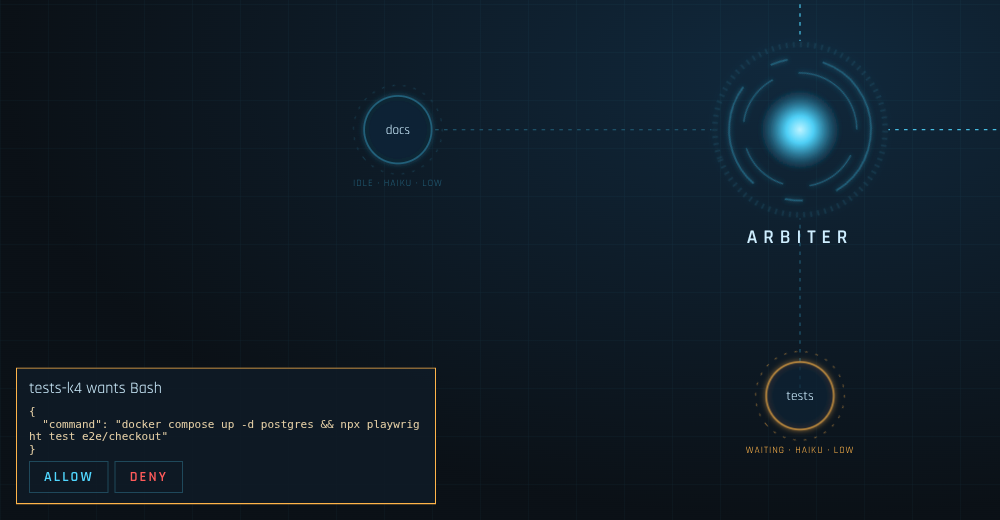
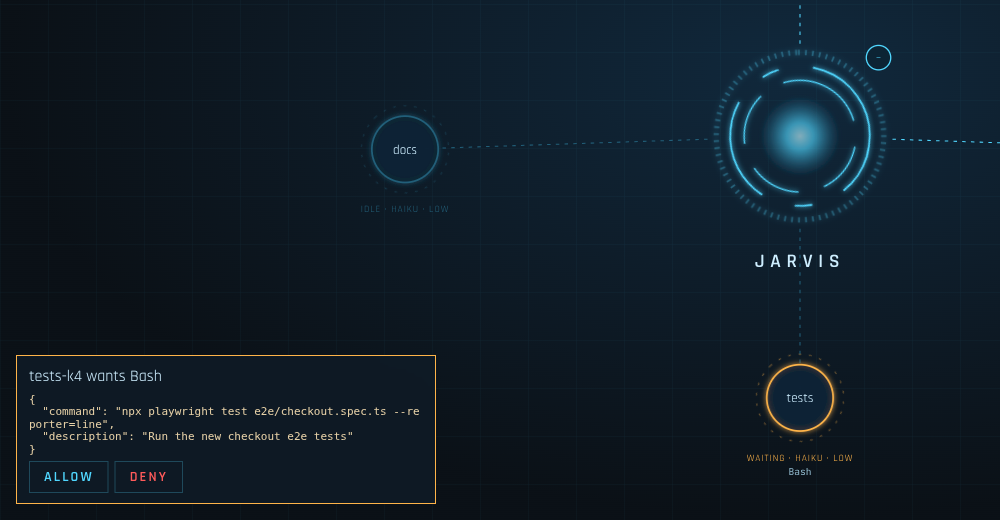
docs: open the README with a demo animation and retake the screenshots
A 14-second animated WebP (1600px, 20 fps, full colour) now leads the README: Jarvis splits a goal, hires agents and a lead with helpers, a board note goes out, an approval card comes and goes, and agents report back. The hero, agent log, approval and menu screenshots are retaken with the Jarvis name and the sector layout, and a new Big teams section with its own screenshot explains folding and hiding. Controls now lists what the right-click menu offers on an agent, on Jarvis and on a workspace tab.

diff --git a/README.md b/README.md
@@ -4,7 +4,7 @@
 
 You describe a goal in plain words. Jarvis splits it into tasks, hands each task to its own [Claude Code](https://claude.com/claude-code) agent, and shows the whole team on screen: who is working, on what, how much it costs, and when someone needs your OK.
 
-![Jarvis: Jarvis in the center, agents around it, chat on the right](docs/screenshots/hero.png)
+![Jarvis splits a goal into tasks, hires agents and a lead with its own helpers, and asks for approval when needed](docs/screenshots/demo.webp)
 
 ## Why
 
@@ -14,7 +14,7 @@ Jarvis works like a small team with a lead:
 
 - **Jarvis** (the glowing core) is the team lead. It does not write code. It plans, hires agents, passes information between them, and reports back to you.
 - **Agents** (the circles) do the actual work. Each one has its own copy of the code (a separate git branch), so they never overwrite each other.
-- **Lead agents** can hire their own helpers for big sub-tasks, like `backend` above with `migration` and `apple-pay`.
+- **Lead agents** can hire their own helpers for big sub-tasks, like `deploy` above with `ci` and `preview`.
 - **You** watch, chat with anyone, and approve actions that the safety check is not sure about.
 
 ## Who it is for
@@ -30,6 +30,8 @@ You do not need to read the code to use Jarvis. You need to be comfortable with 
 ### The map
 
 Jarvis sits in the center with its agents on a ring around it; each lead gets its own slice of the circle, and its helpers sit on an outer ring inside that slice, so groups never overlap. The rings grow as the team grows.
+
+![Jarvis in the center, agents around it, Jarvis's chat on the right](docs/screenshots/hero.png)
 
 | Color | Meaning |
 |-------|---------|
@@ -59,11 +61,25 @@ Agents run in Claude Code's `auto` permission mode: a built-in classifier approv
 
 ### Controls
 
-Right-click an agent to open its log, change its model or effort, stop it, or delete it. Right-click a tab to rename it, stop all its agents, or archive it.
+Right-click opens a menu. What it offers depends on what you clicked:
 
-![Right-click menu on an agent](docs/screenshots/menu.png)
+- **An agent:** open its log, change its model or effort, hide it (if it works for Jarvis), fold or unfold its helpers (if it is a lead) or its whole group (if it is a helper), stop it while it works, delete it.
+- **Jarvis:** open its chat, change its model or effort, hide idle agents or show them all, stop every agent.
+- **A workspace tab:** rename it, stop all its agents, or archive it. Archived workspaces sit behind the `ARCHIVE n` button next to the tabs.
 
-Drag the background to pan, scroll to zoom, drag circles to rearrange them, double-click the background to reset the view. The agent panel: drag any edge to resize, drag its header to move it; double-click either to reset. A lead folds its helpers into a `+N` badge on its circle while none of them is working, and unfolds as soon as one gets a task. Click the badge (or use the right-click menu, on the lead or on any of its helpers) to fold or unfold by hand; your choice holds until the automatic one agrees with it again. Jarvis has a badge too: once it has more than 8 agents it hides the ones that have been idle for over 10 minutes (with their helpers) behind `+N` and shows each again as soon as it gets work; click the badge or use its right-click menu to show or hide them by hand: **Hide idle agents** puts away every agent that is not working right now (the selected one too) and is offered while any is still shown, **Show all agents** brings everything back. Hiding or folding away the agent whose chat is open switches the panel to Jarvis's chat. Right-click one of Jarvis's agents and pick **Hide** to put just that one away; it comes back when it or one of its helpers gets work, or when you click Jarvis's `+N`.
+![Right-click menu on the frontend agent: Open log, Model, Effort, Hide, Stop, Delete agent](docs/screenshots/menu.png)
+
+Drag the background to pan, scroll to zoom, drag circles to rearrange them, double-click the background to reset the view. Drag any edge of the agent panel to resize it and its header to move it; double-click either to reset.
+
+### Big teams
+
+A team of 30 agents does not fit on one screen, so Jarvis keeps the map to the agents that matter right now:
+
+- **Leads fold their helpers.** While none of a lead's helpers is working, they fold into a `+N` badge on the lead's circle, and unfold as soon as one gets a task. Click the badge, or use the right-click menu on the lead or any helper, to fold or unfold by hand. Your choice holds until the automatic one agrees with it again.
+- **Jarvis hides idle agents.** Once Jarvis has more than 8 agents, it hides the ones that have been idle for over 10 minutes (with their helpers) behind its own `+N`. Each comes back as soon as it gets work.
+- **You can hide by hand.** Right-click one of Jarvis's agents and pick **Hide**, or right-click Jarvis and pick **Hide idle agents** to put away everyone who is not working right now. **Show all agents**, or a click on Jarvis's `+N`, brings everything back.
+
+![A big team: two leads with their helpers out, one folded into +5, and Jarvis hiding 9 idle agents](docs/screenshots/fold.png)
 
 ## Safety: what Jarvis will and will not do
 
